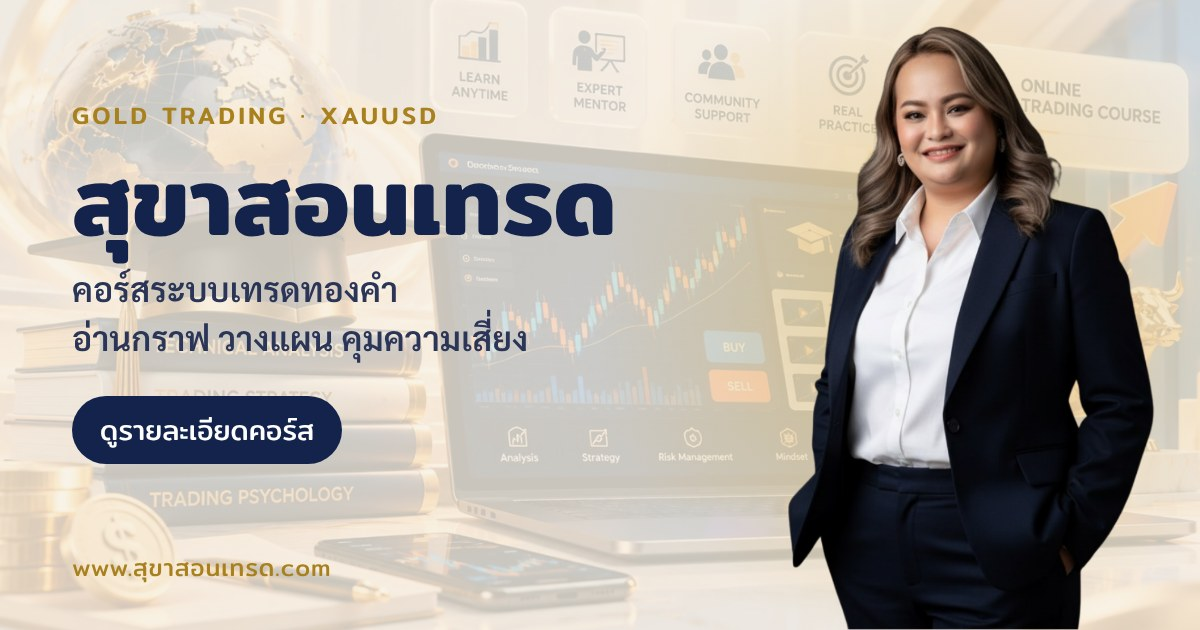
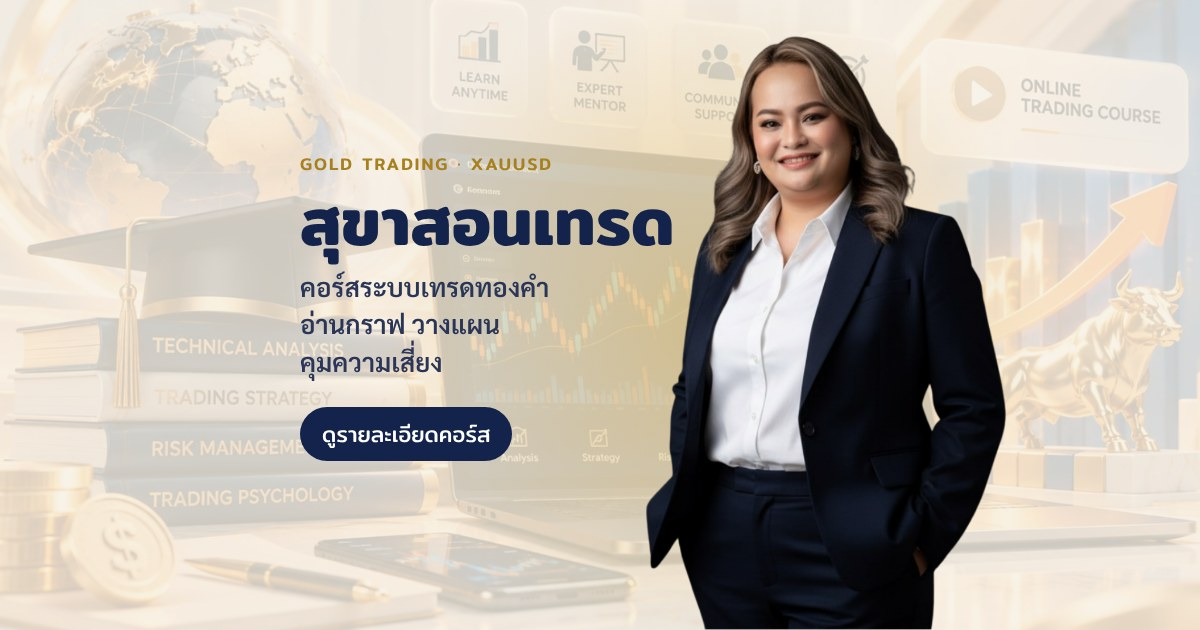
og image v2: key content in center square (LINE thumbnail crop)
Claude-Session: https://claude.ai/code/session_01XnEmU8Yw35jrMfRaPtJuqT

diff --git a/index.html b/index.html
@@ -11,7 +11,7 @@
 <meta property="og:title" content="สุขาสอนเทรด · คอร์สระบบเทรดทองคำ XAUUSD">
 <meta property="og:description" content="คอร์สระบบเทรดทองคำ XAUUSD ของโค้ชสุขา 48 บทเรียน เรียนออนไลน์ได้ตลอดชีพ 1,490 บาท ไม่แจกสัญญาณ ไม่รับประกันกำไร สอนให้ดูกราฟเองเป็น">
 <meta property="og:url" content="https://www.zuka-t4tacademy.com/">
-<meta property="og:image" content="https://www.zuka-t4tacademy.com/assets/og.jpg?v=1">
+<meta property="og:image" content="https://www.zuka-t4tacademy.com/assets/og.jpg?v=2">
 <meta property="og:image:width" content="1200">
 <meta property="og:image:height" content="630">
 <meta property="og:image:alt" content="สุขาสอนเทรด คอร์สระบบเทรดทองคำ">
